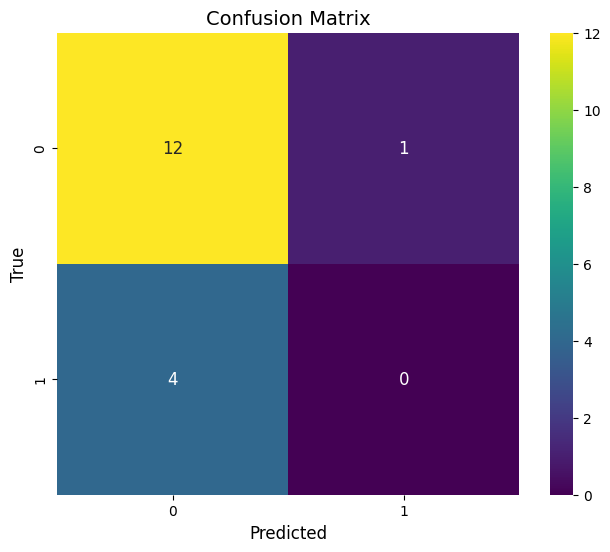
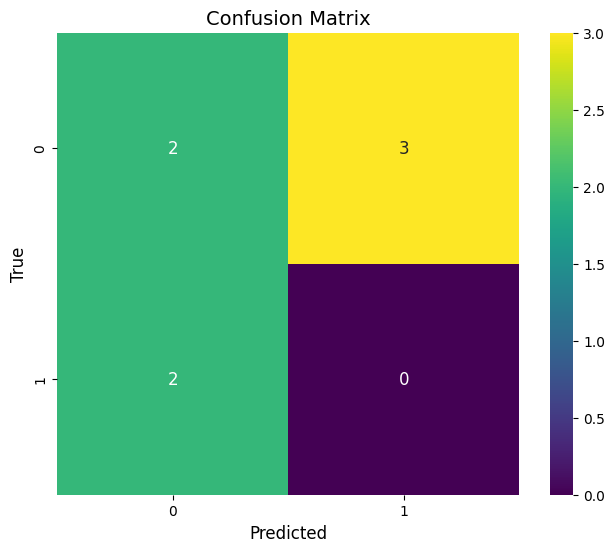
Simplified run_evaluation2 file

diff --git a/run_evaluation2.py b/run_evaluation2.py
@@ -13,7 +13,7 @@ parser = argparse.ArgumentParser(description="Some description.")
 parser.add_argument("-classes", "--num_classes", type=int, default=1, \
                     help="Number of classes in your object detection problem")
 parser.add_argument("-conf", "--confidence_threshold", type=float, default=0.5, \
-                    help="Confidence score threshold. Any detection who's \
+                    help="Confidence score threshold. Any detection whose \
                         confidence is under the value given is skipped during evaluation")
 parser.add_argument("-iou", "--iou_threshold", type=float, default=0.5, \
                     help="IoU threshold. Detections with IoU>threshold is regarded as valid\
@@ -22,19 +22,19 @@ args = parser.parse_args()
 
 
 # Testing the Evaluation Tool on multiple detection-label pairs
-filename = random.choice([i.replace(".txt", "") for i in os.listdir("./examples/preds2")])
+filename = "_MG_3168_10"
 pred = f"./examples/preds2/{filename}.txt"
 truth = f"./examples/truths/{filename}.txt"
 
 #Loading predictions file into NumPy array
-pred = np.genfromtxt(pred, delimiter=',', skip_header=1)
+pred = np.genfromtxt(pred, delimiter=",", skip_header=1)
 pred2 = pred.copy()
-pred2[:, :-2] = pred2[:, :-2].astype(int)
+# pred2[:, :-2] = pred2[:, :-2].astype(int)
 
 #Loading grouth truth file into NumPy array
-truth = np.genfromtxt(truth, delimiter=',', skip_header=1)
+truth = np.genfromtxt(truth, delimiter=",", skip_header=1)
 truth2 = truth.copy()
-truth2[:, :] = truth2[:, :].astype(int)
+# truth2[:, :] = truth2[:, :].astype(int)
 
 # Instantiate ConfusionMatrix with your desired thresholds
 confusion_matrix = ConfusionMatrix(num_classes=args.num_classes, confidence_threshold=args.confidence_threshold, iou_threshold=args.iou_threshold)
@@ -43,32 +43,3 @@ confusion_matrix.plot_matrix(fontsize=12)
 result = confusion_matrix.compute_tp_fp_fn()
 
 print(result)
-
-# Load two images
-image1 = f'examples/plot_truts_and_preds/{filename}.jpg'
-image2 = "Output/matrix.png"
-
-from PIL import Image
-
-# Load two images
-image1 = Image.open(image1)
-image2 = Image.open(image2)
-
-# Determine the target height for resizing
-target_height = max(image1.size[1], image2.size[1])
-
-# Resize images to have the same height
-image1_resized = image1.resize((int(image1.size[0] * target_height / image1.size[1]), target_height))
-image2_resized = image2.resize((int(image2.size[0] * target_height / image2.size[1]), target_height))
-
-# Create a new image with the combined width
-total_width = image1_resized.size[0] + image2_resized.size[0]
-new_im = Image.new('RGB', (total_width, target_height))
-
-# Paste the resized images horizontally
-new_im.paste(image1_resized, (0, 0))
-new_im.paste(image2_resized, (image1_resized.size[0], 0))
-
-# Save the result
-new_im.save(f'Output/{filename}_merged_image.jpg')
-

diff --git a/evaluation.py b/evaluation.py
@@ -46,22 +46,26 @@ class ConfusionMatrix:
 
         # Calculate IoU for all pairs of ground truths and detections
         all_ious = compute_iou(labels[:, :4], detections[:, :4])
-        print(all_ious)
+
+        # Loop through all ground truths and merge them up with the detections
         for i, label in enumerate(labels):
             gt_class = gt_classes[i]
-            print(gt_class, all_ious[i, :])
+            # filters all pairs with IoU> threshold
             matches = np.where(all_ious[i, :] > self.iou_threshold)[0]
-            print("matches", matches)
+
             if len(matches) == 1:
+                # Count 1 match. If there are multiple matches count others as false positives
                 detection_class = detection_classes[matches[0]]
                 self.matrix[detection_class, gt_class] += 1
             else:
                 self.matrix[self.num_classes, gt_class] += 1
 
+        # Count detections that we missed by the model
         for i, detection in enumerate(detections):
             if len(np.where(all_ious[:, i] > self.iou_threshold)[0]) == 0:
                 detection_class = detection_classes[i]
                 self.matrix[detection_class, self.num_classes] += 1
+            
         return self.matrix
 
     def compute_tp_fp_fn(self):
@@ -103,7 +107,7 @@ class ConfusionMatrix:
         ax.set_title('Confusion Matrix', fontsize=fontsize + 2)
         plt.savefig("Output/matrix.png", bbox_inches="tight", pad_inches=0.1)
         # Show the plot
-        #plt.show()
+        plt.show()
 
 if __name__ == "__main__":
     # Instantiate ConfusionMatrix with your desired thresholds
